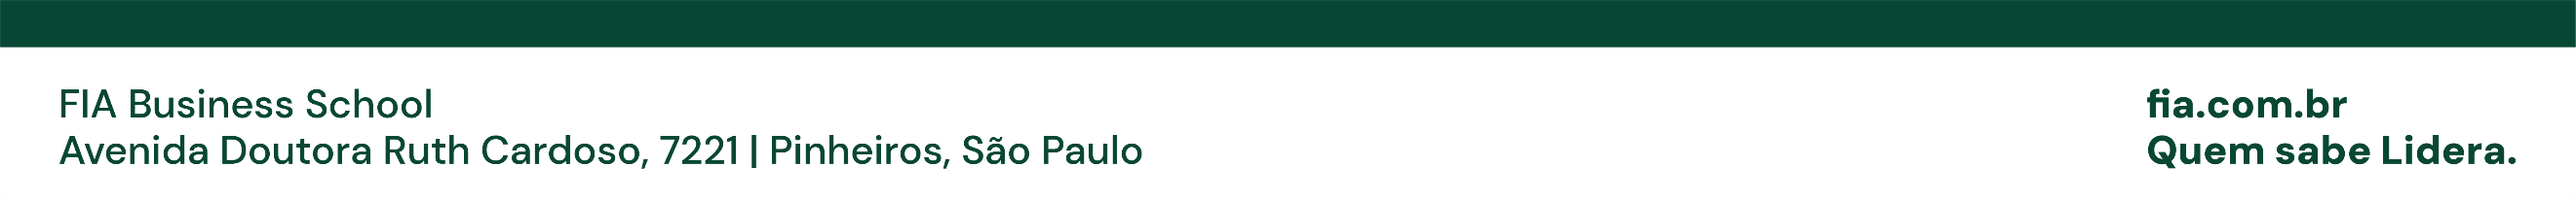
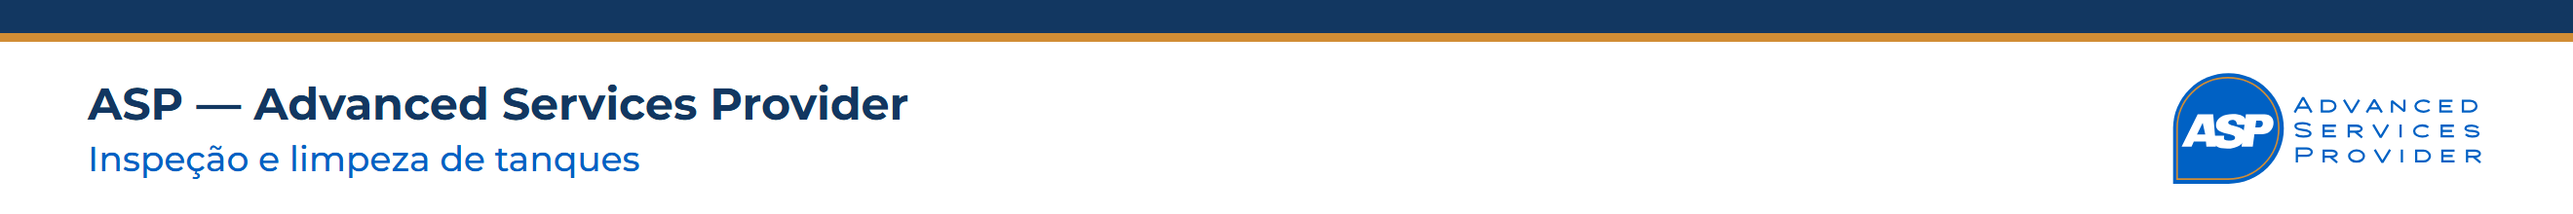
fix(docx): troca cabeçalho, rodapé e capa da FIA pela identidade ASP
Os geradores de proposta, ofício e processos usavam header-logo.png,
footer-bar.png e capa-fundo.png herdados da FIA Business School. Os três
arquivos passam a ter o logo e as cores da ASP (azul-marinho #123761,
azul #0061C4, dourado #D18D35), e as dimensões no código foram ajustadas
às novas proporções.

diff --git a/lib/oficio/oficioDocx.ts b/lib/oficio/oficioDocx.ts
@@ -176,7 +176,7 @@ export async function montarOficio(d: OficioData): Promise<Buffer> {
                   new ImageRun({
                     type: "png",
                     data: asset("header-logo.png"),
-                    transformation: { width: 142, height: 37 },
+                    transformation: { width: 108, height: 40 },
                   }),
                 ],
               }),
@@ -192,7 +192,7 @@ export async function montarOficio(d: OficioData): Promise<Buffer> {
                   new ImageRun({
                     type: "png",
                     data: asset("footer-bar.png"),
-                    transformation: { width: 816, height: 77 },
+                    transformation: { width: 816, height: 68 },
                   }),
                 ],
               }),

diff --git a/lib/proposta/propostaDocx.ts b/lib/proposta/propostaDocx.ts
@@ -75,7 +75,7 @@ function buildHeader(): Header {
           new ImageRun({
             type: "png",
             data: asset("header-logo.png"),
-            transformation: { width: 142, height: 37 },
+            transformation: { width: 108, height: 40 },
           }),
         ],
       }),
@@ -92,7 +92,7 @@ function buildFooter(): Footer {
           new ImageRun({
             type: "png",
             data: asset("footer-bar.png"),
-            transformation: { width: 816, height: 77 },
+            transformation: { width: 816, height: 68 },
           }),
         ],
       }),

diff --git a/lib/docxBuilder.ts b/lib/docxBuilder.ts
@@ -181,7 +181,7 @@ function buildHeader(): Header {
           new ImageRun({
             type: "png",
             data: logo,
-            transformation: { width: 130, height: 34 },
+            transformation: { width: 100, height: 37 },
           }),
         ],
       }),
@@ -200,7 +200,7 @@ function buildFooter(): Footer {
           new ImageRun({
             type: "png",
             data: bar,
-            transformation: { width: 620, height: 48 },
+            transformation: { width: 620, height: 52 },
           }),
         ],
       }),
